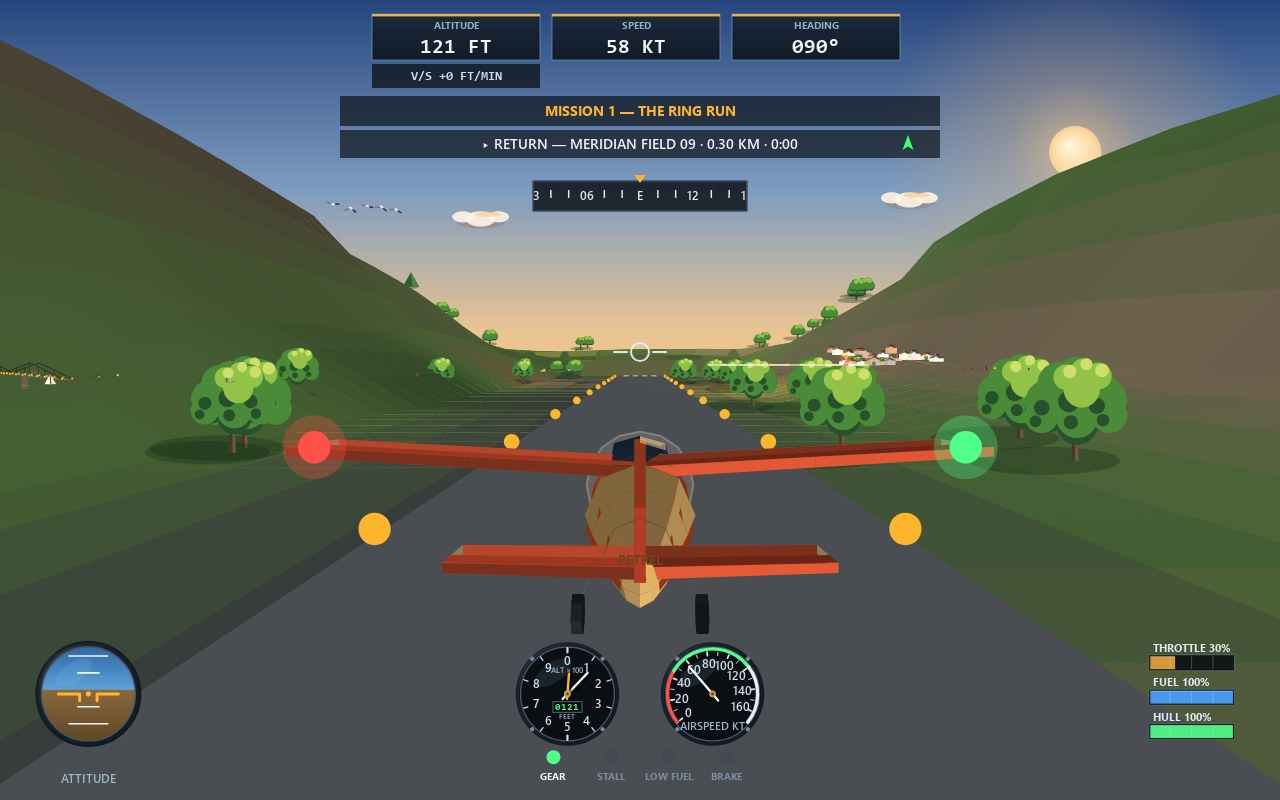
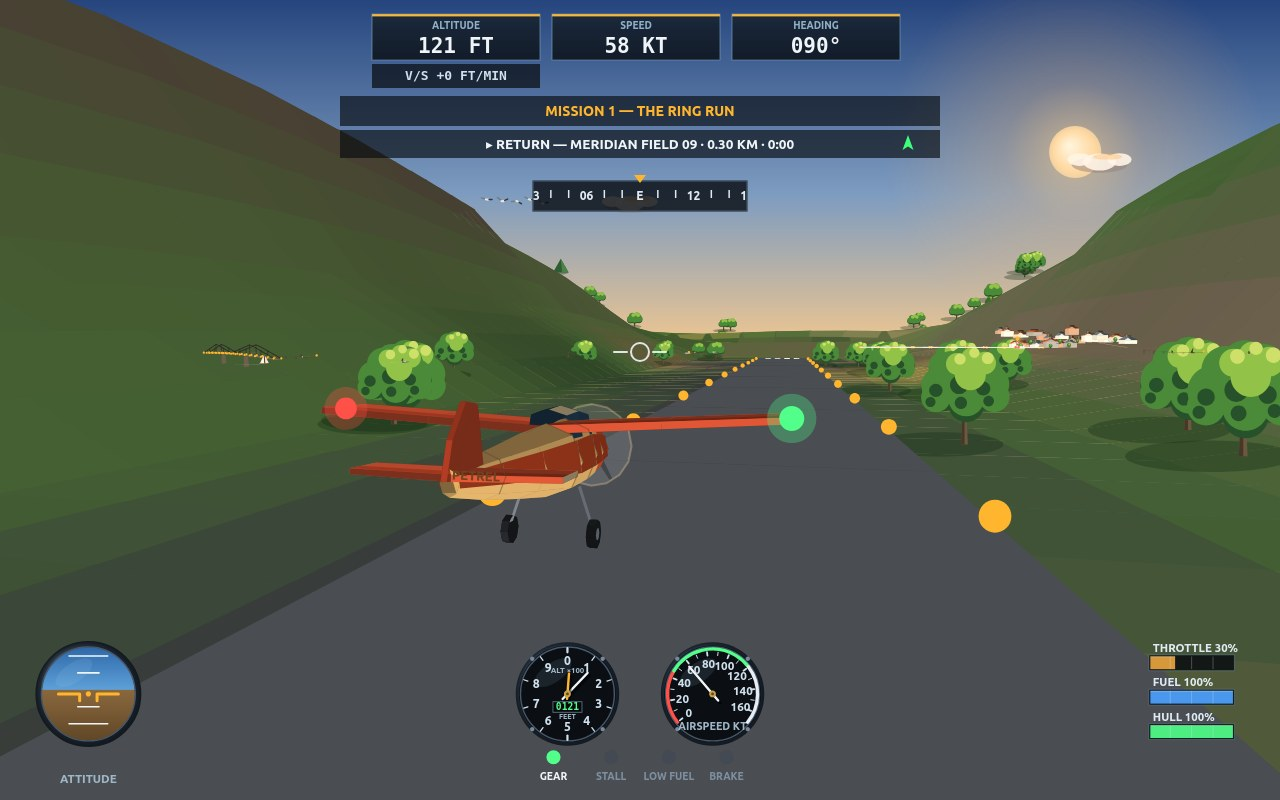
v10 final polish: the deep-shelf edge is gone — the sea floor is meshed too (no cell cut at any depth), the deep gradient is widened and bent by a slow noise warp, deep cells subdivide like shore cells and every water cell takes the hash dither, and far water leans toward the flat sea's tone at the 

diff --git a/game/src/renderer-3d.js b/game/src/renderer-3d.js
@@ -123,11 +123,17 @@ export function terrainBaseRgb(h, slope, x, z) {
   // v9: one noise-warped height reads the whole shore band, so every
   // contour the ramp draws near the water — shelf, shallows, wet
   const shoreW = sstep(-7, -2.5, h) * (1 - sstep(5.5, 9.5, h));
-  const hw = h + chartNoise(x * 6.1, z * 6.1) * 0.9 * shoreW;
+  // v10: a second, slower warp for the deep shelf — the shore warp
+  // dies below −7 m, which left the deep contours printing as one
+  // long straight edge across the bay. This bends them organic.
+  const deepW = sstep(-3, -6, h);
+  const hw = h + chartNoise(x * 6.1, z * 6.1) * 0.9 * shoreW
+    + (chartNoise(x * 3.4 + 31, z * 3.4 - 17) * 2.6
+      + chartNoise(x * 9.3 - 7, z * 9.3 + 13) * 0.8) * deepW;
   if (h < 0.4) {
     // Underwater: the shelf falls away in one gradient, deep
     // blue-green under the keel to pale turquoise at the lip, then
-    let c = mixRgb(hexRgb(PALETTE.seaDeep), hexRgb(PALETTE.seaFloor), sstep(-11, -4, hw));
+    let c = mixRgb(hexRgb(PALETTE.seaDeep), hexRgb(PALETTE.seaFloor), sstep(-13, -2.2, hw));
     c = mixRgb(c, hexRgb(PALETTE.seaShelf), sstep(-4.5, -1.2, hw));
     c = mixRgb(c, hexRgb(PALETTE.seaShallow), sstep(-3.4, 0.8, hw));
     c = mixRgb(c, hexRgb(PALETTE.sandWet), sstep(-0.5, 1.4, hw));
@@ -272,7 +278,10 @@ export function createCamera() {
 // Chase camera: settles behind and above the tail, leaning into the bank so
 // the horizon tilts with the aeroplane instead of fighting it. A posed
 export function chaseCamera(camera, plane, dt, snap = false, view = null) {
-  const back = 10.5 + plane.speed * 0.02;
+  // A posed view may pull the station back (view.back) and aim off
+  // the course line (view.aimSide) — the v10 cover uses both to
+  // hold the three-quarter angle yet centre the aeroplane.
+  const back = view && view.back ? view.back : 10.5 + plane.speed * 0.02;
   const fx = Math.sin(plane.heading);
   const fz = -Math.cos(plane.heading);
   const side = view ? view.side : 0;
@@ -284,8 +293,8 @@ export function chaseCamera(camera, plane, dt, snap = false, view = null) {
   camera.y += (ty - camera.y) * k;
   camera.z += (tz - camera.z) * k;
   if (view) {
-    const ax = plane.x + fx * view.aim - camera.x;
-    const az = plane.z + fz * view.aim - camera.z;
+    const ax = plane.x + fx * view.aim + Math.cos(plane.heading) * (view.aimSide || 0) - camera.x;
+    const az = plane.z + fz * view.aim + Math.sin(plane.heading) * (view.aimSide || 0) - camera.z;
     camera.heading = Math.atan2(ax, -az);
     camera.pitch = Math.atan2(plane.y - camera.y, Math.hypot(ax, az)) + plane.pitch * 0.55;
   } else {
@@ -469,7 +478,9 @@ export function drawTerrain(ctx, project, plane) {
       const x = gx * step;
       const z = gz * step;
       const h = groundHeight(x + step / 2, z + step / 2);
-      if (h < -12.5) continue; // only the true abyss is the flat sea's job
+      // v10: every cell is drawn, sea floor included — cutting the
+      // mesh at any depth left the shelf ending against the flat
+      // sea along a grid-stepped straight edge (see above).
       const dx = x + step / 2 - plane.x;
       const dz = z + step / 2 - plane.z;
       cells.push({ x, z, h, d2: dx * dx + dz * dz });
@@ -482,7 +493,12 @@ export function drawTerrain(ctx, project, plane) {
     // six ways, the mid-distance two, and the far hills two as well
     const dist = Math.sqrt(cell.d2);
     const shoreCell = cell.h > -9 && cell.h < 10;
-    const n = dist < 520 ? (shoreCell ? 12 : 8) : dist < 2400 ? (cell.h > 45 ? 3 : shoreCell ? 4 : 2) : cell.h > 45 ? 2 : 1;
+    // v10: deep cells subdivide like shore cells (at n=1–2 the
+    // deep gradient averaged into terraced 65–130 m steps), while
+    // a true floor cell is one flat deep quad at any distance.
+    const deepCell = cell.h < -9;
+    const floorCell = cell.h <= -13.9;
+    const n = floorCell ? 1 : dist < 520 ? (shoreCell ? 12 : 8) : dist < 2400 ? (cell.h > 45 ? 3 : shoreCell || deepCell ? 4 : 2) : cell.h > 45 || deepCell ? 2 : 1;
     const pts = [];
     for (let j = 0; j <= n; j++) {
       for (let i = 0; i <= n; i++) {
@@ -501,13 +517,21 @@ export function drawTerrain(ctx, project, plane) {
     }
     // Each sub-quad takes the average of its four lit corners: with
     // corners shared between neighbours and colours drawn from the
+    const seaRgb = hexRgb(PALETTE.sea);
     const hazed = (p) => {
       const w = sstep(1500, 3500, p.depth) * 0.6;
-      return [
-        p.r + (hazeRgb[0] - p.r) * w,
-        p.g + (hazeRgb[1] - p.g) * w,
-        p.b + (hazeRgb[2] - p.b) * w,
-      ];
+      let r = p.r + (hazeRgb[0] - p.r) * w;
+      let g = p.g + (hazeRgb[1] - p.g) * w;
+      let b = p.b + (hazeRgb[2] - p.b) * w;
+      // v10: far water leans toward the flat sea's mid tone near
+      // the mesh radius, meeting the backdrop sea without a step.
+      if (p.wh < 0.4) {
+        const fw = sstep(2000, 3300, p.depth) * 0.5;
+        r += (seaRgb[0] - r) * fw;
+        g += (seaRgb[1] - g) * fw;
+        b += (seaRgb[2] - b) * fw;
+      }
+      return [r, g, b];
     };
     for (let j = 0; j < n; j++) {
       for (let i = 0; i < n; i++) {
@@ -519,9 +543,10 @@ export function drawTerrain(ctx, project, plane) {
         const cb = hazed(b);
         const cc = hazed(c);
         const cd = hazed(d);
-        // Shore-band dither: a breath of per-quad hash grain, so the
-        // eye reads texture where the ramp steps, not a tiled grid.
-        const jit = shoreCell
+        // Water dither: per-quad hash grain so the eye reads
+        // texture where the ramp steps — v10 extends the shore
+        // band's dither to every water cell, deep shelf included.
+        const jit = shoreCell || cell.h < 0.4
           ? 0.965 + cellHash(Math.round(cell.x / step) * 57 + i * 3, Math.round(cell.z / step) * 57 + j * 3) * 0.07
           : 1;
         ctx.fillStyle = `rgb(${Math.round(((ca[0] + cb[0] + cc[0] + cd[0]) / 4) * jit)},${Math.round(((ca[1] + cb[1] + cc[1] + cd[1]) / 4) * jit)},${Math.round(((ca[2] + cb[2] + cc[2] + cd[2]) / 4) * jit)})`;

diff --git a/game/src/shots.js b/game/src/shots.js
@@ -9,10 +9,17 @@ export function applyShotScene(game, name) {
   // The posed chase view (v9): cover and cargo are shot from a rear
   // three-quarter station, not dead astern — from square behind, the
   game.shotCam = null;
-  const QUARTER = { side: 5.0, up: 3.3, aim: 40 };
+  // v10: the cover station pulls back and aims off the course line
+  // (back 17, aimSide −10) — v9's close quarter parked the plane in
+  // the lower-left; from further back the flank reads gentler and
+  // the off-line aim centres the plane with the ring still ahead.
+  const QUARTER = { side: 6.5, up: 2.4, aim: 42, back: 17, aimSide: -10 };
   // Cargo is shot from the port quarter instead: its showcase is the
   // fleet working the bay ahead-left, and a starboard station swings
   const QUARTER_PORT = { side: -5.0, up: 3.3, aim: 40 };
+  // v10: the finale joins the family — a gentler starboard quarter,
+  // so the strip still runs ahead under the plane.
+  const QUARTER_FINALE = { side: 5.5, up: 2.8, aim: 34, back: 15, aimSide: -5 };
   if (name === 'approach') {
     // Cockpit on final for Porto Lume Strip 36: runway ahead and filling
     // the windscreen, gear down, glide alive on the panel.
@@ -47,6 +54,7 @@ export function applyShotScene(game, name) {
     game.missionState.ringsPassed = 8;
     game.missionState.mission.rings.forEach((r) => { r.passed = true; });
     game.cameraMode = 'chase';
+    game.shotCam = QUARTER_FINALE;
   } else {
     // cover: the Ring Run, second gate ahead, home isle spread below.
     startSortie(game, 0);
